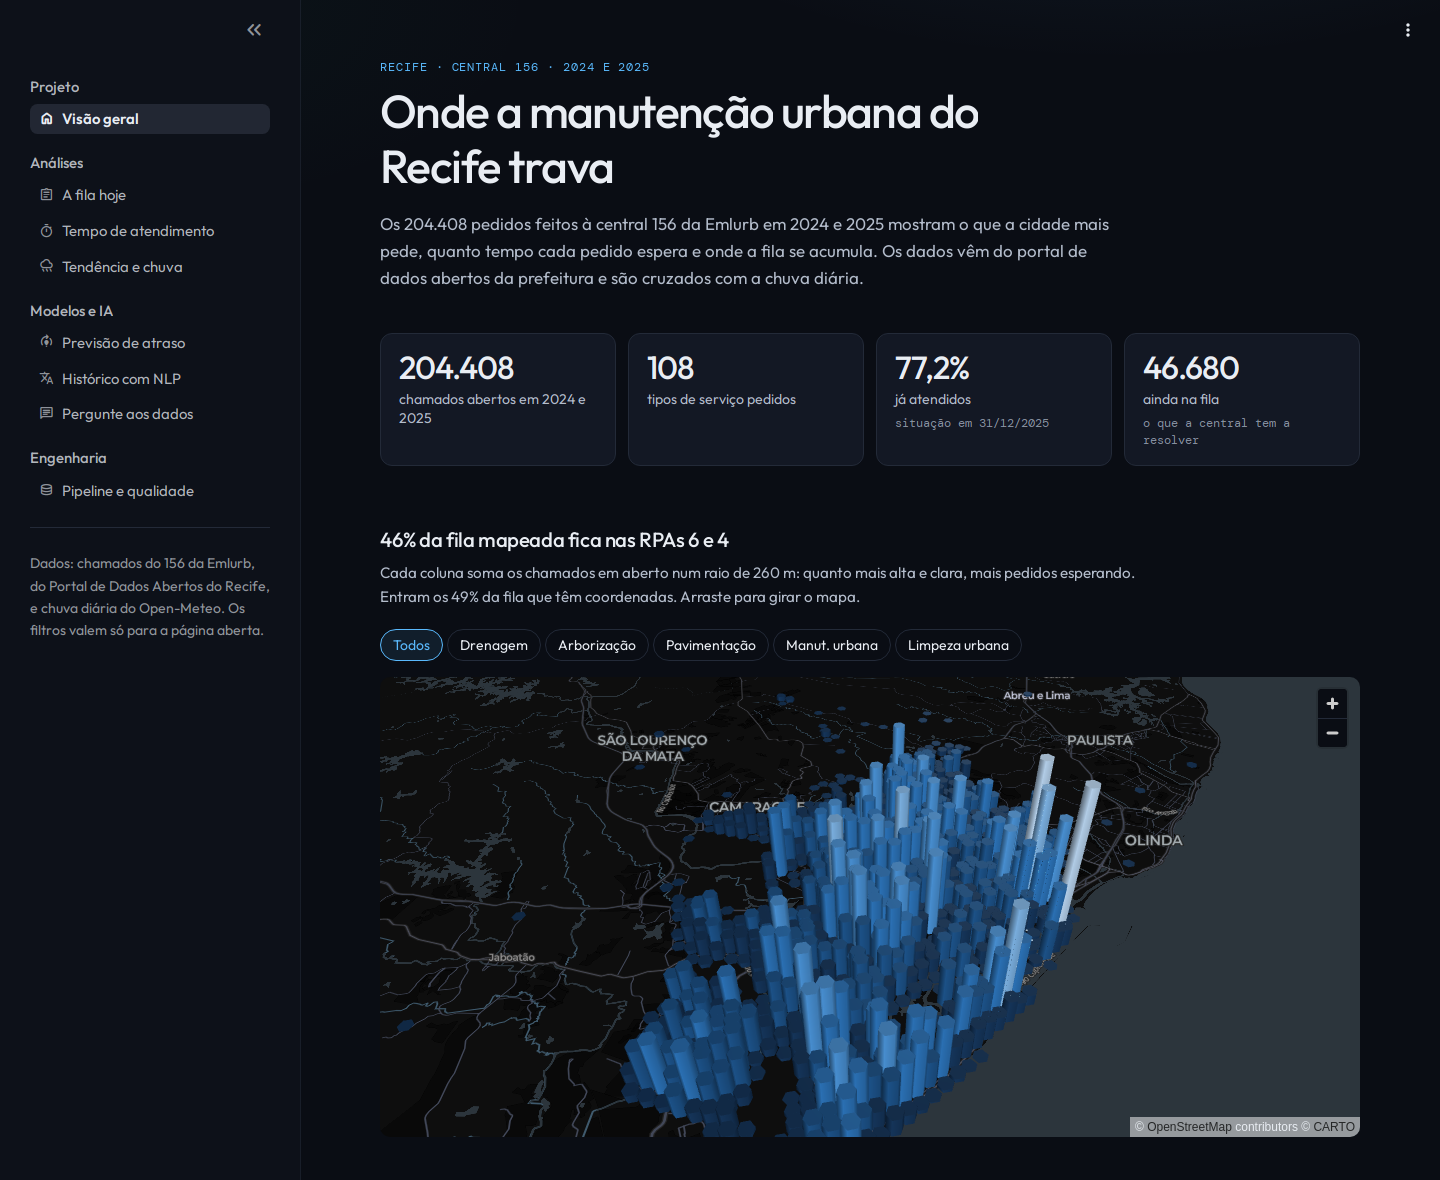
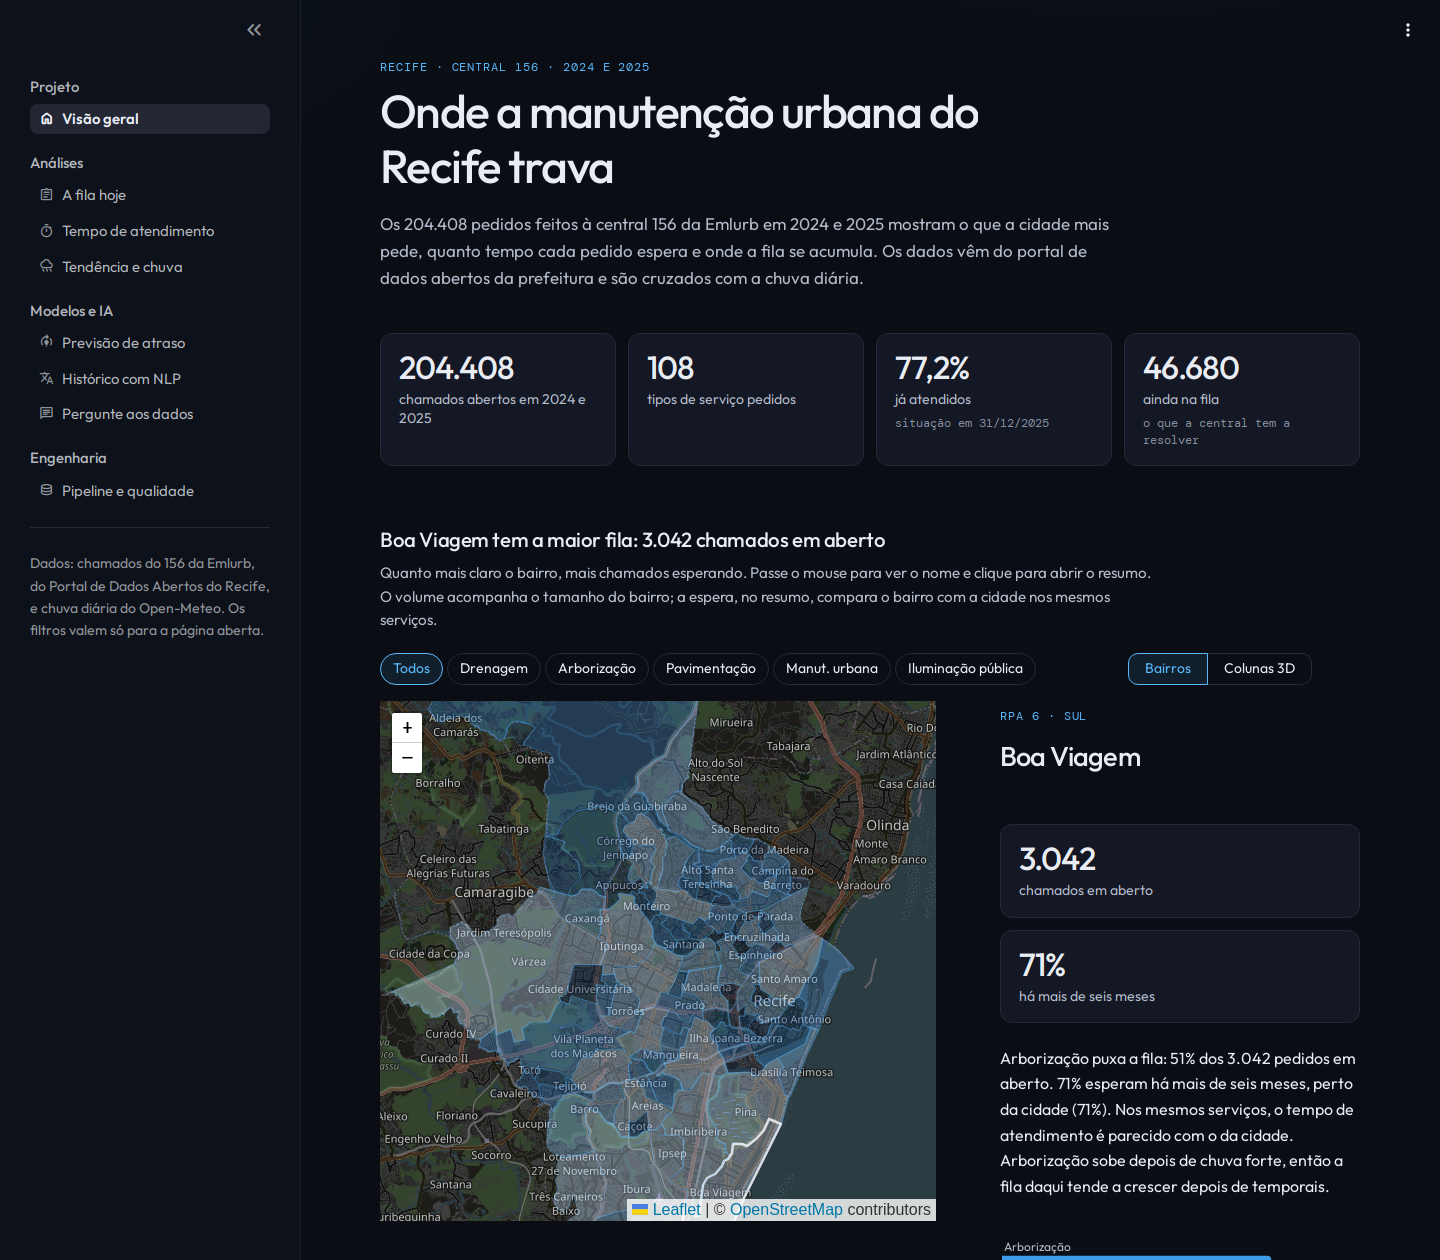
feat(dashboard): mapa da fila por bairro sobre o OpenStreetMap
O mapa principal da abertura passa a ser um mapa real (Leaflet com tiles do
OpenStreetMap, escurecidos por CSS) com os bairros oficiais do portal por
cima. Passar o mouse mostra o bairro, a RPA e a fila; clicar abre uma aba
com um resumo calculado dos dados e atualiza o painel ao lado. O resumo
compara a espera do bairro com a da cidade nos mesmos serviços, sem usar
modelo de linguagem. As colunas 3D viram a segunda opção.

diff --git a/src/dashboard/neighborhoods.py b/src/dashboard/neighborhoods.py
@@ -1,0 +1,183 @@
+import json
+
+import folium
+import pandas as pd
+import streamlit as st
+from streamlit_folium import st_folium
+
+from src.config import PROJECT_ROOT
+from src.dashboard.data import fmt_int, fmt_num, fmt_pct
+
+# Official boundaries from the Recife open data portal ("Bairros do Recife"), simplified to ~6 m
+BOUNDARIES_PATH = PROJECT_ROOT / "app" / "assets" / "recife_bairros.geojson"
+# Three neighborhoods are spelled differently in the boundaries file and in the 156 data
+ALIASES = {
+    "ALTO DO MANDU": "ALTO DO MANDU SITIO GRANDE",
+    "COHAB": "COHAB IBURA DE CIMA",
+    "SITIO DOS PINTOS": "SITIO DOS PINTOS SAO BRAS",
+}
+RPA_REGIONS = {1: "Centro", 2: "Norte", 3: "Noroeste", 4: "Oeste", 5: "Sudoeste", 6: "Sul"}
+# Groups that rise after heavy rain (notebook 03)
+RAIN_GROUPS = {"Drenagem", "Arborização"}
+# Dark to bright blue: the brighter the neighborhood, the more open tickets
+STEPS = ["#1f3b63", "#1f5a96", "#2f7cc7", "#4f9de6", "#86c0f5", "#c4e2ff"]
+RECIFE = [-8.045, -34.925]
+TIP_STYLE = (
+    "background-color:#131824;color:#e9edf3;border:1px solid #2a3242;border-radius:8px;"
+    "font-family:Outfit,system-ui,sans-serif;font-size:13px;padding:8px 10px;"
+)
+# OpenStreetMap tiles need no key; the filter turns them dark only in the tile layer, so the
+# neighborhood colours on top stay as they are. Leaflet's popup is white by default too.
+POPUP_CSS = """<style>
+.leaflet-tile-pane {
+  filter: invert(1) hue-rotate(180deg) brightness(.92) contrast(.88) saturate(.55);
+}
+.leaflet-container { background:#0a0d14; }
+.leaflet-popup-content-wrapper, .leaflet-popup-tip { background:#131824; color:#e9edf3;
+  border:1px solid #2a3242; box-shadow:0 8px 24px rgba(0,0,0,.4); }
+.leaflet-popup-content { font-family:Outfit,system-ui,sans-serif; font-size:13px; line-height:1.5;
+  margin:12px 14px; }
+.leaflet-popup-content table th { display:none; }
+.leaflet-popup-content td:first-child { font-weight:600; font-size:15px; }
+.leaflet-container a.leaflet-popup-close-button { color:#8891a1; }
+</style>"""
+
+
+@st.cache_data
+def load_boundaries() -> dict:
+    data = json.loads(BOUNDARIES_PATH.read_text(encoding="utf-8"))
+    for feature in data["features"]:
+        props = feature["properties"]
+        props["name"] = ALIASES.get(props["name"], props["name"])
+        props["rpa"] = int(props["rpa"])
+    return data
+
+
+def neighborhood_stats(tickets: pd.DataFrame, reference: pd.Timestamp, by: str) -> pd.DataFrame:
+    open_tickets = tickets[tickets["is_open"]]
+    resolved = tickets[~tickets["is_open"]]
+    # Waiting time relative to the same service in the whole city, so a neighborhood is not
+    # called slow only because it asks for slow services
+    service_median = resolved.groupby("service_name")["days_to_last_update"].median().clip(lower=1)
+    relative = resolved["days_to_last_update"] / resolved["service_name"].map(service_median)
+    old = (reference - open_tickets["opened_on"]).dt.days > 180
+
+    stats = pd.DataFrame(
+        {
+            "open_tickets": open_tickets.groupby("neighborhood_name").size(),
+            "over_180": old.groupby(open_tickets["neighborhood_name"]).mean(),
+            "relative_wait": relative.groupby(resolved["neighborhood_name"]).median(),
+        }
+    )
+    top = (
+        open_tickets.groupby(["neighborhood_name", by], observed=True)
+        .size()
+        .rename("n")
+        .reset_index()
+        .sort_values("n", ascending=False)
+        .drop_duplicates("neighborhood_name")
+        .set_index("neighborhood_name")
+    )
+    stats["top"] = top[by].astype(str)
+    stats["top_share"] = top["n"] / stats["open_tickets"]
+    stats["open_tickets"] = stats["open_tickets"].fillna(0).astype(int)
+    return stats
+
+
+# A short reading of one neighborhood, built from its numbers (no language model involved)
+def describe(row: pd.Series, city_over_180: float) -> str:
+    if not row.get("open_tickets"):
+        return "Nenhum chamado em aberto com esse filtro."
+    parts = [
+        f"{row['top']} puxa a fila: {fmt_pct(100 * row['top_share'], 0)} dos "
+        f"{fmt_int(row['open_tickets'])} pedidos em aberto."
+    ]
+    over, gap = row["over_180"], row["over_180"] - city_over_180
+    city = fmt_pct(100 * city_over_180, 0)
+    if gap > 0.1:
+        parts.append(
+            f"{fmt_pct(100 * over, 0)} esperam há mais de seis meses, acima da cidade ({city})."
+        )
+    elif gap < -0.1:
+        parts.append(
+            f"{fmt_pct(100 * over, 0)} esperam há mais de seis meses, abaixo da cidade ({city})."
+        )
+    else:
+        parts.append(
+            f"{fmt_pct(100 * over, 0)} esperam há mais de seis meses, perto da cidade ({city})."
+        )
+    wait = row.get("relative_wait")
+    if pd.notna(wait):
+        if wait >= 1.3:
+            parts.append(
+                f"Nos mesmos serviços, o atendimento aqui leva {fmt_num(wait)} vezes o tempo da "
+                "cidade."
+            )
+        elif wait <= 0.77:
+            parts.append(
+                f"Nos mesmos serviços, o atendimento aqui leva {fmt_pct(100 * wait, 0)} do tempo "
+                "da cidade."
+            )
+        else:
+            parts.append("Nos mesmos serviços, o tempo de atendimento é parecido com o da cidade.")
+    if row["top"] in RAIN_GROUPS:
+        parts.append(
+            f"{row['top']} sobe depois de chuva forte, então a fila daqui tende a crescer depois "
+            "de temporais."
+        )
+    return " ".join(parts)
+
+
+# Map tiles come from OpenStreetMap; the neighborhoods are a light layer on top, there to
+# answer the pointer. Returns the neighborhood clicked last, or `default`.
+def neighborhood_map(
+    boundaries: dict, stats: pd.DataFrame, city_over_180: float, default: str, height: int = 520
+) -> str:
+    previous = st.session_state.get("bairros_map") or {}
+    clicked = (previous.get("last_active_drawing") or {}).get("properties", {}).get("name")
+    selected = clicked or default
+
+    ranks = stats["open_tickets"].rank(pct=True)
+    features = []
+    for feature in boundaries["features"]:
+        props = dict(feature["properties"])
+        name = props["name"]
+        known = name in stats.index
+        step = min(int(ranks[name] * len(STEPS)), len(STEPS) - 1) if known else 0
+        props.update(
+            region=f"RPA {props['rpa']} · {RPA_REGIONS[props['rpa']]}",
+            queue=f"{fmt_int(stats.loc[name, 'open_tickets']) if known else 0} chamados em aberto",
+            summary=describe(stats.loc[name], city_over_180)
+            if known
+            else "Sem chamados em aberto.",
+            fill=STEPS[step],
+            selected=name == selected,
+        )
+        features.append({**feature, "properties": props})
+
+    world = folium.Map(location=RECIFE, zoom_start=12, tiles="OpenStreetMap", prefer_canvas=True)
+    world.get_root().header.add_child(folium.Element(POPUP_CSS))
+    folium.GeoJson(
+        {"type": "FeatureCollection", "features": features},
+        name="bairros",
+        style_function=lambda f: {
+            "fillColor": f["properties"]["fill"],
+            "fillOpacity": 0.34,
+            "color": "#e9edf3" if f["properties"]["selected"] else "#5ab9fc",
+            "weight": 2.5 if f["properties"]["selected"] else 0.7,
+            "opacity": 0.9 if f["properties"]["selected"] else 0.45,
+        },
+        highlight_function=lambda f: {"weight": 2.5, "color": "#e9edf3", "fillOpacity": 0.6},
+        tooltip=folium.GeoJsonTooltip(
+            fields=["label", "region", "queue"], labels=False, sticky=True, style=TIP_STYLE
+        ),
+        popup=folium.GeoJsonPopup(fields=["label", "summary"], labels=False, max_width=300),
+    ).add_to(world)
+    st_folium(
+        world,
+        height=height,
+        use_container_width=True,
+        returned_objects=["last_active_drawing"],
+        key="bairros_map",
+    )
+    return selected

diff --git a/app/views/overview.py b/app/views/overview.py
@@ -15,8 +15,15 @@ from src.dashboard.data import (
     load_tickets,
 )
 from src.dashboard.maps import queue_map
+from src.dashboard.neighborhoods import (
+    RPA_REGIONS,
+    describe,
+    load_boundaries,
+    neighborhood_map,
+    neighborhood_stats,
+)
 from src.dashboard.style import ACCENT, INK, ranked_bars, show
-from src.dashboard.ui import Stat, Step, flow, header, note, section, stats
+from src.dashboard.ui import Stat, Step, flow, header, note, panel_heading, section, stats
 
 tickets = load_tickets()
 reference = tickets["status_updated_on"].max()
@@ -44,23 +51,78 @@ stats(
     ]
 )
 
-points = load_open_points()
-# The title depends on the group picked below it, so it is filled after the choice
+# The title depends on the choices made below it, so it is filled after them
 title_area = st.container()
-groups = ["Todos", *points["group"].value_counts().head(5).index]
-chosen = st.pills("Grupo no mapa", groups, default="Todos", label_visibility="collapsed")
-shown = points if chosen in (None, "Todos") else points[points["group"] == chosen]
-by_rpa = shown["rpa"].value_counts(normalize=True)
-first, second = by_rpa.index[:2]
-with title_area:
-    section(
-        f"{fmt_pct(100 * by_rpa.iloc[:2].sum(), 0)} da fila mapeada fica nas RPAs "
-        f"{int(first)} e {int(second)}",
-        "Cada coluna soma os chamados em aberto num raio de 260 m: quanto mais alta e clara, mais "
-        f"pedidos esperando. Entram os {fmt_pct(100 * len(points) / tickets['is_open'].sum(), 0)} "
-        "da fila que têm coordenadas. Arraste para girar o mapa.",
-    )
-queue_map(shown)
+controls = st.columns([4, 1.3], vertical_alignment="center")
+open_groups = tickets.loc[tickets["is_open"], "group"].value_counts().head(5).index
+chosen = controls[0].pills(
+    "Grupo no mapa", ["Todos", *open_groups], default="Todos", label_visibility="collapsed"
+)
+view = controls[1].segmented_control(
+    "Visualização", ["Bairros", "Colunas 3D"], default="Bairros", label_visibility="collapsed"
+)
+all_groups = chosen in (None, "Todos")
+filtered = tickets if all_groups else tickets[tickets["group"] == chosen]
+
+if view == "Colunas 3D":
+    points = load_open_points()
+    shown = points if all_groups else points[points["group"] == chosen]
+    by_rpa = shown["rpa"].value_counts(normalize=True)
+    first, second = by_rpa.index[:2]
+    with title_area:
+        section(
+            f"{fmt_pct(100 * by_rpa.iloc[:2].sum(), 0)} da fila mapeada fica nas RPAs "
+            f"{int(first)} e {int(second)}",
+            "Cada coluna soma os chamados em aberto num raio de 260 m: quanto mais alta e clara, "
+            f"mais pedidos esperando. Entram os "
+            f"{fmt_pct(100 * len(points) / tickets['is_open'].sum(), 0)} da fila que têm "
+            "coordenadas. Arraste para girar o mapa.",
+        )
+    queue_map(shown)
+else:
+    boundaries = load_boundaries()
+    places = {f["properties"]["name"]: f["properties"] for f in boundaries["features"]}
+    by_neighborhood = neighborhood_stats(filtered, reference, "group" if all_groups else "service")
+    leader = by_neighborhood["open_tickets"].idxmax()
+    with title_area:
+        section(
+            f"{places[leader]['label']} tem a maior fila: "
+            f"{fmt_int(by_neighborhood.loc[leader, 'open_tickets'])} chamados em aberto",
+            "Quanto mais claro o bairro, mais chamados esperando. Passe o mouse para ver o nome e "
+            "clique para abrir o resumo. O volume acompanha o tamanho do bairro; a espera, no "
+            "resumo, compara o bairro com a cidade nos mesmos serviços.",
+        )
+    open_filtered = filtered[filtered["is_open"]]
+    city_over_180 = ((reference - open_filtered["opened_on"]).dt.days > 180).mean()
+    map_column, panel_column = st.columns([3, 2], gap="large")
+    with map_column:
+        selected = neighborhood_map(boundaries, by_neighborhood, city_over_180, default=leader)
+    with panel_column:
+        place = places.get(selected, {"label": selected, "rpa": 0})
+        rpa = place["rpa"]
+        panel_heading(f"RPA {rpa} · {RPA_REGIONS.get(rpa, '')}", place["label"])
+        if selected in by_neighborhood.index:
+            row = by_neighborhood.loc[selected]
+            stats(
+                [
+                    Stat(fmt_int(row["open_tickets"]), "chamados em aberto"),
+                    Stat(fmt_pct(100 * row["over_180"], 0), "há mais de seis meses"),
+                ]
+            )
+            st.markdown(describe(row, city_over_180))
+            by = "group" if all_groups else "service"
+            mix = open_filtered.loc[open_filtered["neighborhood_name"] == selected, by]
+            mix = mix.value_counts(normalize=True).head(4)
+            fig = ranked_bars(
+                list(mix.index),
+                list(100 * mix.values),
+                [fmt_pct(100 * value, 0) for value in mix.values],
+                highlight={mix.index[0]},
+                labels_above=True,
+            )
+            show(fig, height=40 + 44 * len(mix))
+        else:
+            st.markdown("Nenhum chamado em aberto neste bairro com esse filtro.")
 
 section("O que os dados mostram")
 columns = st.columns(3, gap="medium")

diff --git a/tests/test_neighborhoods.py b/tests/test_neighborhoods.py
@@ -1,0 +1,46 @@
+import pandas as pd
+
+from src.dashboard.neighborhoods import describe, neighborhood_stats
+
+
+def tickets_frame() -> pd.DataFrame:
+    return pd.DataFrame(
+        {
+            "neighborhood_name": ["PINA", "PINA", "PINA", "TORRE", "TORRE", "TORRE"],
+            "service_name": ["PODA", "PODA", "PODA", "PODA", "PODA", "PODA"],
+            "group": ["Arborização"] * 6,
+            "is_open": [True, True, False, True, False, False],
+            "opened_on": pd.to_datetime(["2025-01-01", "2025-12-01", "2025-01-01"] * 2),
+            "days_to_last_update": [0, 0, 40, 0, 10, 10],
+        }
+    )
+
+
+def test_neighborhood_stats_compares_waits_within_the_same_service():
+    stats = neighborhood_stats(tickets_frame(), pd.Timestamp("2025-12-31"), "group")
+
+    assert stats.loc["PINA", "open_tickets"] == 2
+    assert stats.loc["PINA", "over_180"] == 0.5
+    # The city median for PODA is 10 days: Pina took 40 (4x), Torre took 10 (1x)
+    assert stats.loc["PINA", "relative_wait"] == 4.0
+    assert stats.loc["TORRE", "relative_wait"] == 1.0
+    assert stats.loc["TORRE", "top"] == "Arborização"
+
+
+def test_describe_reads_the_numbers_against_the_city():
+    row = pd.Series(
+        {
+            "open_tickets": 100,
+            "over_180": 0.8,
+            "relative_wait": 2.0,
+            "top": "Drenagem",
+            "top_share": 0.4,
+        }
+    )
+
+    text = describe(row, city_over_180=0.5)
+
+    assert text.startswith("Drenagem puxa a fila: 40% dos 100 pedidos em aberto.")
+    assert "acima da cidade (50%)" in text
+    assert "2,0 vezes o tempo da cidade" in text
+    assert "chuva forte" in text

diff --git a/src/dashboard/ui.py b/src/dashboard/ui.py
@@ -47,6 +47,10 @@ h1, h2, h3 {{ letter-spacing: -0.02em; color: {INK}; }}
 }}
 
 .r-section {{ margin: 2.2rem 0 0.3rem; }}
+.r-panel-title {{
+    font-size: 1.7rem; font-weight: 500; letter-spacing: -0.03em; margin: 0 0 .2rem;
+    animation: r-up .4s var(--r-ease-enter) both;
+}}
 .r-section h3 {{ font-size: 1.28rem; font-weight: 500; margin: 0 0 0.3rem; padding: 0; }}
 .r-section p {{
     color: {INK_2}; font-size: 0.95rem; line-height: 1.55; margin: 0; max-width: 78ch;
@@ -246,3 +250,10 @@ def flow(steps: list[Step]) -> None:
         for index, step in enumerate(steps)
     )
     st.html(f'<div class="r-flow">{cards}</div>')
+
+
+def panel_heading(kicker: str, title: str) -> None:
+    st.html(
+        f'<p class="r-kicker" style="margin-top:.4rem">{escape(kicker)}</p>'
+        f'<h3 class="r-panel-title">{escape(title)}</h3>'
+    )

diff --git a/README.md b/README.md
@@ -31,6 +31,7 @@ A prefeitura recebe mais de 100 mil chamados por ano no 156. Para quem gere esse
 | Fonte | Formato | Acesso |
 |---|---|---|
 | [Central de Atendimento de Serviços da Emlurb (156)](https://dados.recife.pe.gov.br/dataset/central-de-atendimento-de-servicos-da-emlurb-156), Portal de Dados Abertos do Recife | CSV por ano, licença ODbL | API CKAN para descobrir os arquivos, download direto |
+| [Bairros do Recife](https://dados.recife.pe.gov.br/dataset/area-urbana), Portal de Dados Abertos do Recife | GeoJSON, simplificado em [app/assets](app/assets) | Contorno dos bairros no mapa do painel |
 | [Open-Meteo, API histórica](https://open-meteo.com/en/docs/historical-weather-api) | JSON com chuva e temperatura diárias, licença CC BY 4.0 | API REST sem chave |
 
 O recorte padrão é 2024 e 2025. O notebook [01_data_cleaning](notebooks/01_data_cleaning.ipynb) mostra os problemas encontrados nos arquivos brutos e a decisão tomada em cada um: o arquivo de um ano traz chamados de anos anteriores, o mesmo chamado aparece em mais de um arquivo com situações diferentes, as grafias variam, há coordenadas fora do mapa e, até 2023, os códigos de serviço eram outros e os acentos foram apagados na origem. O schema real e as regras de limpeza estão em [docs/data_dictionary.md](docs/data_dictionary.md). A chuva vem de um modelo em grade, não de um pluviômetro: serve para comparar dias entre si, não para medir milímetros.
@@ -174,7 +175,7 @@ O painel está publicado em [recife-156.streamlit.app](https://recife-156.stream
 
 | Página | O que responde |
 |---|---|
-| [Visão geral](docs/img/dashboard_overview.png) | Os três achados principais, um mapa 3D da fila em aberto filtrável por grupo e o caminho dos dados do portal até o banco |
+| [Visão geral](docs/img/dashboard_overview.png) | Os três achados principais, o mapa da fila por bairro (passar o mouse mostra o bairro e a RPA; clicar abre um resumo calculado dos dados, sem IA) com a alternativa em colunas 3D, e o caminho dos dados do portal até o banco |
 | [A fila hoje](docs/img/dashboard_operational.png) | O que chegou nos últimos dias, o ritmo da semana e onde a fila está parada, por bairro e serviço |
 | [Tempo de atendimento](docs/img/dashboard_managerial.png) | Quanto cada grupo de serviço espera (um clique no grupo abre os serviços dele), como a região muda a espera e se entra mais do que sai |
 | [Tendência e chuva](docs/img/dashboard_strategic.png) | Variação entre anos, sazonalidade e efeito da chuva forte por serviço, com teste estatístico |
